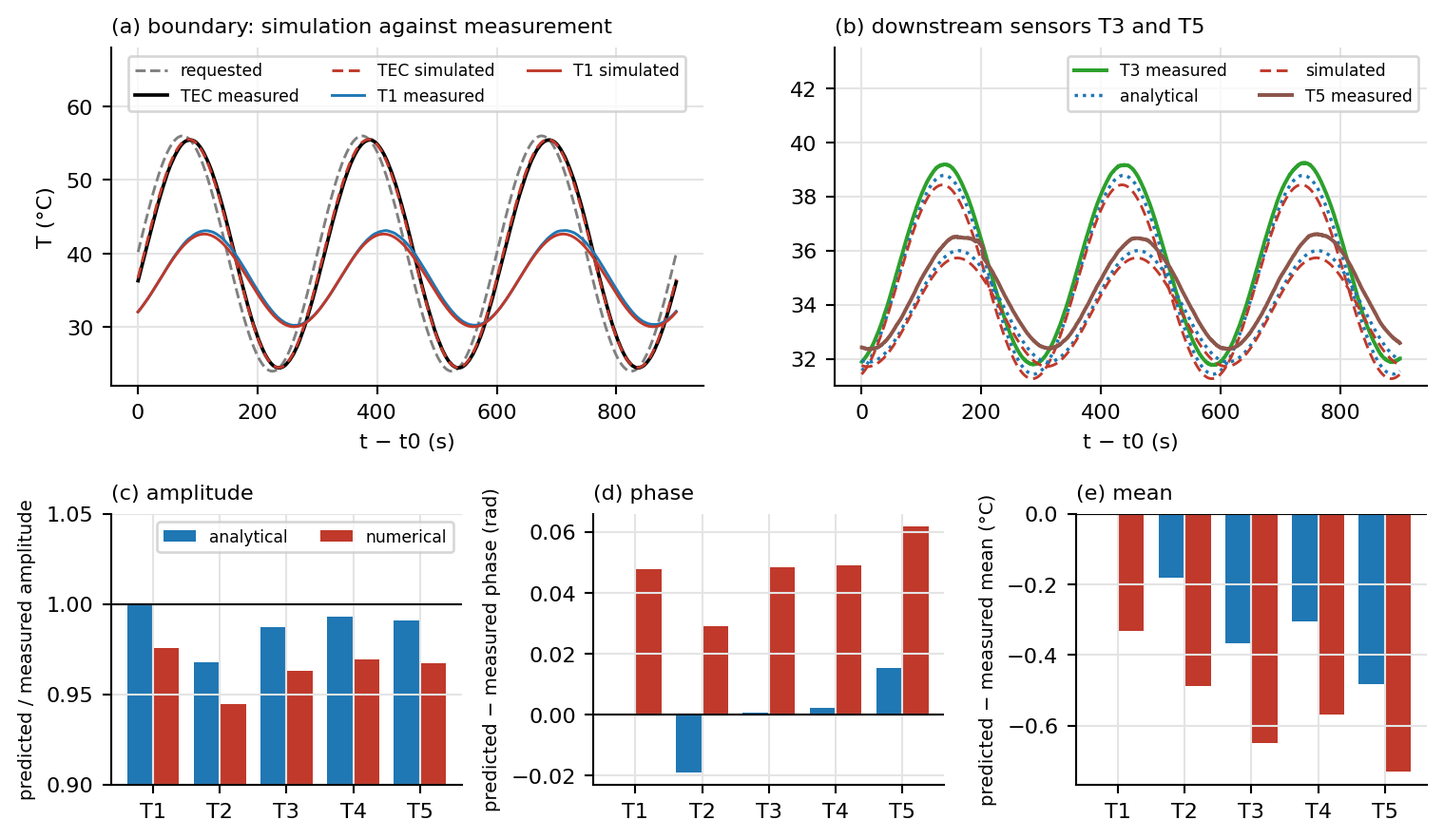
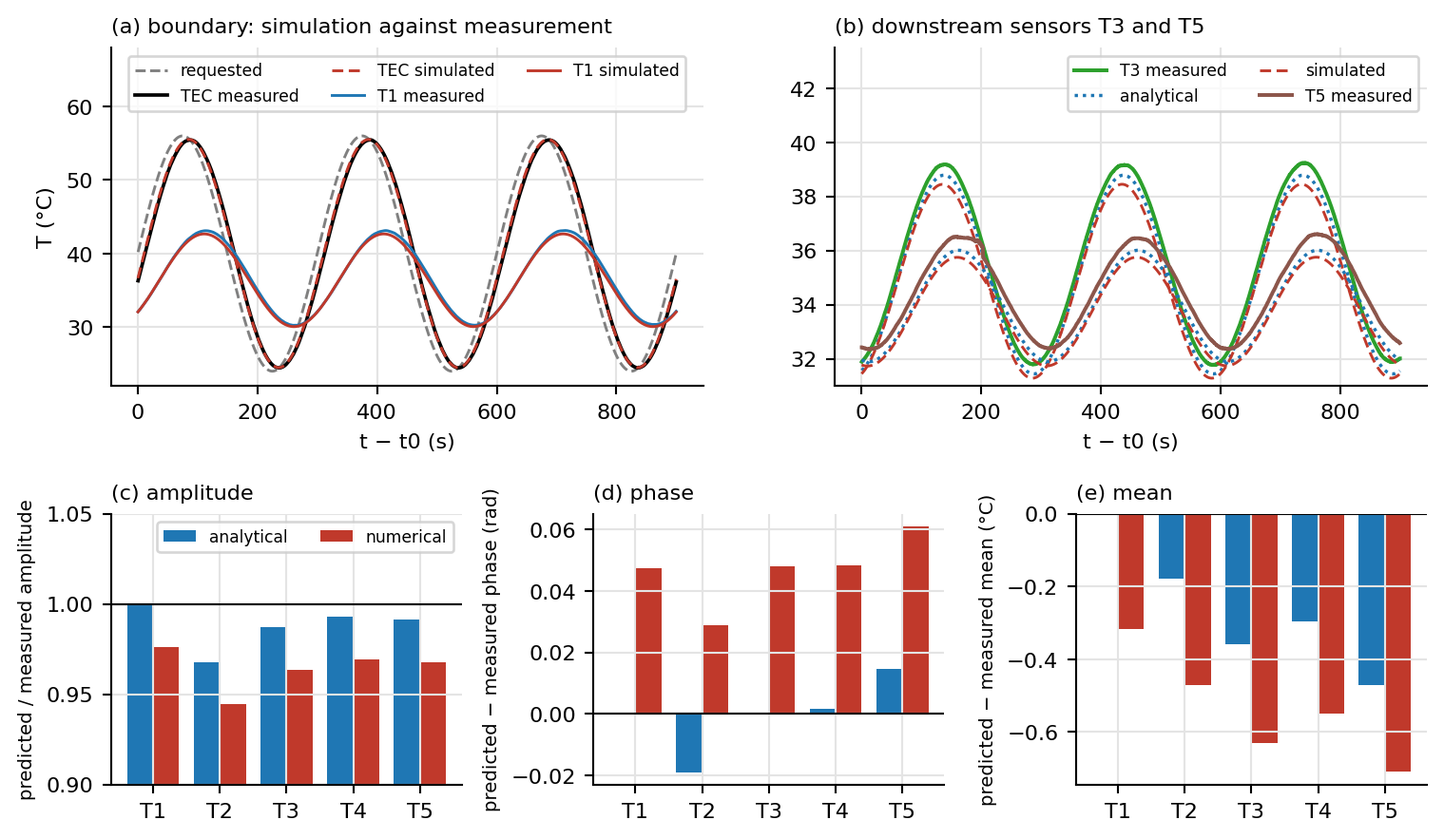
A5 (Cohen): 400 s window of the 18 Nov run is the last five cycles, unmasked
Window = cycles 4 to 8 by the five-cycle rule; four are strictly settled, so the run is left out of the shared kappa (10 windows: kappa 9.26 +- 0.06, nu 1.74 +- 0.14). The T3 burst is reported, not masked; masking it (7 settled cycles, kappa 9.34 +- 0.23) is kept as a sensitivity check. Evidence table updated.

diff --git a/python/sammy_module8_a5_write.py b/python/sammy_module8_a5_write.py
@@ -78,11 +78,11 @@ def main():
     r18 = (chk18[0][1], chk18[2][1])
     bc = M.burst_check(M.RUN18, 400)
     bs = M.burst_stats(M.RUN18, "T3_C", 2445, 2467)
-    wd_nm = M.sammy_window(M.RUN18, 400, "strict", use_mask=False)
-    assert wb[400]["wd"]["ncyc"] == 7 and len(bc["block"]) == 4 and bc["sensor"] == "T3_C", "typed counts in Part 1 are stale"
+    wd_m = M.sammy_window(M.RUN18, 400, "strict", mask=M.T3_BURST)
+    assert wb[400]["wd"]["ncyc"] == 5 and len(bc["block"]) == 4 and wd_m["ncyc"] == 7 and bc["sensor"] == "T3_C", "typed counts in the text are stale"
     xs, dxs = A.load_positions(A.SENSOR_MAP)
-    phi_nm = wd_nm["phi"][0] + M.np.unwrap(wd_nm["phi"] - wd_nm["phi"][0])
-    fin_nm = FR.joint_fit(xs, dxs, wd_nm["B"], wd_nm["sB"], phi_nm, wd_nm["sphi"], 2 * math.pi / 400, A.load_geometry(A.GEOMETRY)["L"], True)
+    phi_m = wd_m["phi"][0] + M.np.unwrap(wd_m["phi"] - wd_m["phi"][0])
+    fin_m = FR.joint_fit(xs, dxs, wd_m["B"], wd_m["sB"], phi_m, wd_m["sphi"], 2 * math.pi / 400, A.load_geometry(A.GEOMETRY)["L"], True)
     cp = M.comparison(g_c, tau_s, kap, nu, wb[300])
     s183 = read_csv(os.path.join(A.DATA_DIR, "s183_analysis_20261111_122227", "s183_by_period.csv"))[0]
     fitrow = next(r for r in read_csv(os.path.join(A.DATA_DIR, "s183_analysis_20261111_122227", "s183_model_fit.csv")) if r["model"].startswith("fitted"))
@@ -214,11 +214,11 @@ Repository: https://github.com/kapilnaidu1/phys39-naidu-cohen, branch main
 - **S18 record.** The team's S18 evidence table (one row per step S18.1 to S18.10: result, evidence, departures) is `docs/module_notes/module_08_s18_evidence_table.md`.
   Departures that matter here: the 2 Nov feedforward inverted the measured steady-state curve instead of using the S18.5 straight line, which gives nearly the same command (3 to 67 counts against {ff_lo:.1f} to {ff_hi:.1f});
   the PI pair (Kp 12, Ki 0.2) came from the Module 6 plate model and ran at every period, and the S18.7 tuning log is the two single-gain trials of 18 Nov (Kp 20, then Ki 0.5, at 100 s; Table 1),
-  neither of which met all four criteria, so I did not retune further; the 400 s window has seven settled cycles by the strict test (3 % in amplitude, 0.05 rad) only after masking one burst on T3 in cycle 4
-  (four without the mask; Question 3); 480 s stands in for 500 s.
+  neither of which met all four criteria, so I did not retune further; the 400 s window (18 Nov) has five cycles by the five-cycle rule but four by the strict settling test (3 % in amplitude, 0.05 rad)
+  because a burst on T3 spoils cycle 4; I did not mask it (Question 3); 480 s stands in for 500 s.
 - **Data and code.** Raw runs, each with `_events.txt`, `_notes.csv` and `_meta.json`: Kapil's `angstrom_live_20261102_094506` (feedforward, P, PI 100 s) and `angstrom_live_20261104_110306` (PI 300 s, the matched run) in `data/module_08/`;
   mine in `data/module_08_sammy/`, all `sammy_angstrom_live_` + `20261111_122227` (raw zero-centered), `20261116_090538` (PI 100 and 480 s), `20261116_111935` (phases: PI 200 s, raw positive-only), `20261117_162612` and `20261118_104629`
-  (PI 400 s; the latter with its `_mask.csv`) and `20261118_122006` (the two gain trials, as phase slices). Each figure caption names its run and interval (also in `a5_control_table.csv` and `a5_windows.csv`). Code (in `python/`):
+  (PI 400 s) and `20261118_122006` (the two gain trials, as phase slices). Each figure caption names its run and interval (also in `a5_control_table.csv` and `a5_windows.csv`). Code (in `python/`):
   `sammy_module8_a5_write.py` regenerates every number, table and figure below with `sammy_module8_a5.py`, `sammy_module8_a5_figs.py`, `sammy_module8_angstrom_analysis.py`, `sammy_module8_finite_rod.py`,
   `sammy_module8_runs_summary.py` and the model `sammy_module8_tec_rod_sim.py`; `build_a5_cohen_pdf.py` makes this PDF. The commit named on this page contains all of them.
 
@@ -289,7 +289,7 @@ insulated tip matters for it, whereas the oscillation is confined to the first o
 ![Characteristic lengths](../figures/module_08_sammy/a5_fig2_lengths.png)
 
 **Figure 2.** Characteristic lengths against period. Curves: 1/q, 1/q\u2032 and 1/m for the shared \u03ba = {pm(kap, kw[1], 1e5)} \u00d7 10\u207b\u2075 m\u00b2/s and \u03bd = {pm(nu, nuw[1], 1e3)} \u00d7 10\u207b\u00b3 s\u207b\u00b9 (bands: \u00b11 standard error). Points: finite-rod fits of the
-five production windows of Table 2 (circles 1/q, squares 1/q\u2032, with errors) and 1/m from the finite mean-profile fit of each window (triangles; the 200 s window had no pre-hold, so its mean was still rising).
+five production windows of Table 2 (circles 1/q, squares 1/q\u2032, with errors) and 1/m from the finite mean-profile fit of each window (triangles; the 200 s window had no pre-hold, so its mean was still rising). Open markers: the 400 s window uses the last five cycles, only {len(bc['block'])} of them strictly settled.
 
 ### Question 3: how do the measurements determine diffusivity and heat loss?
 
@@ -307,9 +307,9 @@ and raises \u03c7\u00b2/dof to {min(chi_dof):.1f} to {max(chi_dof):.1f} (the err
 a semi-infinite fit would give \u03ba {semi_low[400]:.1f} % (400 s) and {semi_low[480]:.1f} % (480 s) too low. (iii) Mean profile: the finite cosh fit to the mean temperatures agrees with \u221a(q\u00b2 \u2212 q\u2032\u00b2) within errors at 100, 300, 400 and 480 s ({mcmp} 1/m), as does Module 7's full-length steady-state fit of the same rod,
 m = 4.12 \u00b1 0.07 1/m (`docs/module_notes/module_08_stationary_fin.md`); at 200 s the run started from room temperature without a hold, the mean was still rising and m is too large.
 (iv) The transverse Biot number Bi = (D/4)\u00b2(q\u00b2 \u2212 q\u2032\u00b2) = {sci(min(w['bi'] for w in wins))} to {sci(max(w['bi'] for w in wins))} \u226a 0.1: one temperature per cross-section.
-(v) The 400 s window (18 Nov): without a mask the strict test rejects cycle {bc['cycle']} on {bc['sensor'][:2]} alone (amplitude {n(bc['dB'][2], 1, True)} %, phase {n(bc['dphi'][2], 2, True)} rad; the other sensors are within {max(abs(v) for i, v in enumerate(bc['dB']) if i != 2):.1f} %),
-because of a burst on T3 ({bs['n']} points more than 0.25 \u00b0C from their running median, jumps up to {bs['jump']:.1f} \u00b0C between 0.5 s samples; 11:27:15 to 11:27:37, no note, cause unknown). I masked those 22 s of T3 (`sammy_angstrom_live_20261118_104629_mask.csv`; the raw file is unchanged),
-which leaves cycles {wb[400]['wd']['cycles']} settled; without the mask only cycles {bc['block'][0] + 1} to {bc['block'][-1] + 1} qualify ({len(bc['block'])}, below the five required) and \u03ba = {pm(fin_nm['kappa'], fin_nm['skappa'], 1e5)} \u00d7 10\u207b\u2075 m\u00b2/s against {pm(wb[400]['fin']['kappa'], wb[400]['fin']['skappa'], 1e5)} with it, so the mask does not decide the result.
+(v) The 400 s window (18 Nov) is the last five cycles of its step (cycles {wb[400]['wd']['cycles']}, no mask). The strict test counts {len(bc['block'])} of them ({bc['block'][0] + 1} to {bc['block'][-1] + 1}) because it rejects cycle {bc['cycle']} on {bc['sensor'][:2]} alone (amplitude {n(bc['dB'][2], 1, True)} %, phase {n(bc['dphi'][2], 2, True)} rad; the other sensors are within {max(abs(v) for i, v in enumerate(bc['dB']) if i != 2):.1f} %),
+the effect of a burst on T3 ({bs['n']} points more than 0.25 \u00b0C from their running median, jumps up to {bs['jump']:.1f} \u00b0C between 0.5 s samples; 11:27:15 to 11:27:37, no note, cause unknown). I kept the burst in the fit (\u03ba = {pm(wb[400]['fin']['kappa'], wb[400]['fin']['skappa'], 1e5)} \u00d7 10\u207b\u2075 m\u00b2/s) and left the window out of the shared mean,
+since only {len(bc['block'])} of its cycles are strictly settled. Masking T3 for those 22 s instead would give {wd_m['ncyc']} settled cycles ({wd_m['cycles']}) and \u03ba = {pm(fin_m['kappa'], fin_m['skappa'], 1e5)}, so the burst does not decide the result.
 
 **The most important limitation.** The five periods agree with each other, so the frequency-consistency test passes, but \u03ba is {100 * (kap / kh - 1):.0f} % above the handbook {kh * 1e5:.1f} \u00d7 10\u207b\u2075 m\u00b2/s of 6061-T6 at every period (k = {k_cond:.0f} against 167 W/(m K)),
 and a frequency-independent systematic cannot show up in a test across frequency. It is not the sensor spacing (the calipers read 25.4 mm; {25.4 * math.sqrt(kh / kap):.0f} mm would be needed), and not T2 (dropping it changes \u03ba by {n(max(t2_dk.values()), 1, True)} to {n(min(t2_dk.values()), 1, True)} %). The alloy,
@@ -320,7 +320,7 @@ the assumed \u03c1 and c, and the effective bead positions are untested.
 **Figure 3.** (a) ln of the amplitude ratio, (b) unwrapped phase and (c) mean excess temperature against distance from the T1 hole for the five windows (SAMMY 16 Nov 100 s and 480 s, SAMMY 16 Nov 200 s, Kapil 4 Nov 300 s, SAMMY 18 Nov 400 s; cycles in Table 2),
 with the finite-rod curves of the fitted q and q\u2032 and the cosh fit of the mean.
 
-**Table 2.** Spatial fits of the five production windows (finite insulated tip; settled cycles are numbered from the start of the step; \u03ba<sub>sh</sub> is the shared value above; the 400 s window masks a T3 burst, Checks (v)). Intervals, residuals, finite-length differences, mean-profile slopes and Biot numbers are in `a5_windows.csv`.
+**Table 2.** Spatial fits of the five production windows (finite insulated tip; settled cycles are numbered from the start of the step; \u03ba<sub>sh</sub> is the shared value above; the 400 s window is the last five cycles of its step, Checks (v)). Intervals, residuals, finite-length differences, mean-profile slopes and Biot numbers are in `a5_windows.csv`.
 
 {t2}
 
@@ -359,7 +359,7 @@ The \u03bd spread between windows (Table 2) is as large as this effect, so I can
 
 The aluminium rod behaves as a one-dimensional rod that diffuses and loses heat to the air: the amplitude and phase lengths grow as \u221a\u03c4, one pair of parameters describes all periods (\u03ba = {pm(kap, kw[1], 1e5)} \u00d7 10\u207b\u2075 m\u00b2/s, \u03bd = {pm(nu, nuw[1], 1e3)} \u00d7 10\u207b\u00b3 s\u207b\u00b9,
 h \u2248 {h_conv:.0f} W/(m\u00b2 K)), and a finite-rod calculation and a coupled TEC and rod simulation both reproduce the 300 s run to a few percent in amplitude and a few hundredths of a radian in phase. The TEC follows the requested sinusoid only at the longer periods (at Kp 12 a delay of 10 to 13 s
-limits the phase; a higher Kp shortens it to {bm('kp20', 'lag_s'):.0f} s but then clips the PWM at 100 s), so the rod is analysed from T1, not from the setpoint. The conclusion is limited by a {100 * (kap / kh - 1):.0f} % excess of \u03ba over the handbook value that a test across frequencies cannot reveal, and a \u03bd good to only {min(nu_err):.0f} to {max(nu_err):.0f} % per window. The one measurement that would best resolve the first is an independent determination of the rod's conductivity or alloy (its density from mass and volume, or a steady-state conduction measurement with a known heater power), which would show whether the excess is in k or in the effective sensor spacing.
+limits the phase; a higher Kp shortens it to {bm('kp20', 'lag_s'):.0f} s but then clips the PWM at 100 s), so the rod is analysed from T1, not from the setpoint. The conclusion is limited by a {100 * (kap / kh - 1):.0f} % excess of \u03ba over the handbook value that a test across frequencies cannot reveal, a \u03bd good to only {min(nu_err):.0f} to {max(nu_err):.0f} % per window and a 400 s window with {len(bc['block'])} strictly settled cycles out of its five. The one measurement that would best resolve the first is an independent determination of the rod's conductivity or alloy (its density from mass and volume, or a steady-state conduction measurement with a known heater power), which would show whether the excess is in k or in the effective sensor spacing.
 
 **AI assistance.** The analysis code, the numerical TEC and rod model and the first draft of this account were written with an AI assistant (GitHub Copilot). Every number and figure is regenerated from the raw files by the scripts named in Part 1, and I am responsible for the content.
 """

diff --git a/python/sammy_module8_a5.py b/python/sammy_module8_a5.py
@@ -42,13 +42,14 @@ RUN18 = "20261118_104629"                                          # 18 Nov: PI 
 TR1 = "20261118_122006_phase1_pi_kp_20_ki_0_2_100s"                # 18 Nov gain trials at 100 s (slices of one plan run)
 TR2 = "20261118_122006_phase2_pi_kp_12_ki_0_5_100s"
 T_ROOM18 = 24.91                                                   # calibrated T1 to T5 mean of the idle lead-in, 18 Nov
+T3_BURST = {"T3_C": [(2445.0, 2467.0, "burst on T3, cycle 4 of the 400 s step")]}   # sensitivity check only: no window is masked
 T_AMB_2NOV, T_AMB_4NOV = 22.53, 27.10
 TA, TB = 40.0, 16.0
 # acceptance criteria for "approached 40 + 16 sin(2 pi t / tau)" (mean error, amplitude ratio, phase lag, rms error)
 CRIT = dict(mean=1.0, ratio_lo=0.90, ratio_hi=1.10, lag=0.30, rms=0.20 * TB)
 # (period, label, source stamp or None for Kapil's 300 s, block, room T for the mean profile)
 WINDOWS = [(100, "SAMMY 16 Nov", RUN16, "strict", 22.2), (200, "SAMMY 16 Nov", PH1, "strict", 22.7),
-           (300, "Kapil 4 Nov", None, "his", T_AMB_4NOV), (400, "SAMMY 18 Nov", RUN18, "strict", T_ROOM18),
+           (300, "Kapil 4 Nov", None, "his", T_AMB_4NOV), (400, "SAMMY 18 Nov", RUN18, "last5", T_ROOM18),
            (480, "SAMMY 16 Nov", RUN16, "strict", 22.2)]
 RUNS_EXTRA = [("SAMMY 18 Nov, PI 400 s", RUN18, "P", "#c0392b")]       # added to the compiled rows of sammy_module8_runs_summary
 COLORS = {100: "#1F4E79", 200: "#2a9d8f", 300: "#888888", 400: "#8e44ad", 480: "#e07b00"}
@@ -56,11 +57,11 @@ wrap = A.wrap
 
 
 def load_run(path, mask=None, use_mask=True):
-    """Run file with the offsets; the mask is <run>_mask.csv when that file exists (use_mask=False: none, for the sensitivity check)."""
+    """Run file with the offsets; mask: a file or a {column: [(t0, t1, reason)]} dict, default <run>_mask.csv when that file exists (none exists for the 18 Nov run)."""
     cols = A.load(path)
     if mask is None and use_mask and os.path.exists(path.replace(".csv", "_mask.csv")):
         mask = path.replace(".csv", "_mask.csv")
-    _, data, _ = A.prepare(cols, A.load_offsets(A.OFFSETS), A.load_mask(mask) if mask else {})
+    _, data, _ = A.prepare(cols, A.load_offsets(A.OFFSETS), (A.load_mask(mask) if isinstance(mask, str) else mask) if mask else {})
     return cols, data
 
 
@@ -154,7 +155,7 @@ def control_rows():
 # ---------------------------------------------------------------------------
 
 CONTACT_1617 = ((RUN16, 100, "strict"), (PH1, 200, "strict"), (RUN17, 400, "last5"))
-CONTACT_18 = ((TR1, 100, "strict"), (TR2, 100, "strict"), (RUN18, 400, "strict"))
+CONTACT_18 = ((TR1, 100, "strict"), (TR2, 100, "strict"), (RUN18, 400, "last5"))
 
 
 def fit_contact(kappa, nu, windows=CONTACT_1617):
@@ -212,8 +213,8 @@ def variant(kp, ki, mode, g_c, tau_s, period=100.0):
 # windows, spatial fits, mean profile (Q2, Q3)
 # ---------------------------------------------------------------------------
 
-def sammy_window(stamp, period, which, use_mask=True):
-    cols, data = load_run(f"{DATA}/module_08_sammy/sammy_angstrom_live_{stamp}.csv", use_mask=use_mask)
+def sammy_window(stamp, period, which, use_mask=True, mask=None):
+    cols, data = load_run(f"{DATA}/module_08_sammy/sammy_angstrom_live_{stamp}.csv", mask=mask, use_mask=use_mask)
     t = cols["t"]
     info = next(s for s in A.find_steps(cols) if abs(s["period"] - period) < 1 and s["tb"] > 0)
     cyc = A.cycle_fits(t, data, info)

diff --git a/docs/assessments/a5_angstrom_cohen.md b/docs/assessments/a5_angstrom_cohen.md
@@ -10,11 +10,11 @@ Repository: https://github.com/kapilnaidu1/phys39-naidu-cohen, branch main
 - **S18 record.** The team's S18 evidence table (one row per step S18.1 to S18.10: result, evidence, departures) is `docs/module_notes/module_08_s18_evidence_table.md`.
   Departures that matter here: the 2 Nov feedforward inverted the measured steady-state curve instead of using the S18.5 straight line, which gives nearly the same command (3 to 67 counts against 2.9 to 66.8);
   the PI pair (Kp 12, Ki 0.2) came from the Module 6 plate model and ran at every period, and the S18.7 tuning log is the two single-gain trials of 18 Nov (Kp 20, then Ki 0.5, at 100 s; Table 1),
-  neither of which met all four criteria, so I did not retune further; the 400 s window has seven settled cycles by the strict test (3 % in amplitude, 0.05 rad) only after masking one burst on T3 in cycle 4
-  (four without the mask; Question 3); 480 s stands in for 500 s.
+  neither of which met all four criteria, so I did not retune further; the 400 s window (18 Nov) has five cycles by the five-cycle rule but four by the strict settling test (3 % in amplitude, 0.05 rad)
+  because a burst on T3 spoils cycle 4; I did not mask it (Question 3); 480 s stands in for 500 s.
 - **Data and code.** Raw runs, each with `_events.txt`, `_notes.csv` and `_meta.json`: Kapil's `angstrom_live_20261102_094506` (feedforward, P, PI 100 s) and `angstrom_live_20261104_110306` (PI 300 s, the matched run) in `data/module_08/`;
   mine in `data/module_08_sammy/`, all `sammy_angstrom_live_` + `20261111_122227` (raw zero-centered), `20261116_090538` (PI 100 and 480 s), `20261116_111935` (phases: PI 200 s, raw positive-only), `20261117_162612` and `20261118_104629`
-  (PI 400 s; the latter with its `_mask.csv`) and `20261118_122006` (the two gain trials, as phase slices). Each figure caption names its run and interval (also in `a5_control_table.csv` and `a5_windows.csv`). Code (in `python/`):
+  (PI 400 s) and `20261118_122006` (the two gain trials, as phase slices). Each figure caption names its run and interval (also in `a5_control_table.csv` and `a5_windows.csv`). Code (in `python/`):
   `sammy_module8_a5_write.py` regenerates every number, table and figure below with `sammy_module8_a5.py`, `sammy_module8_a5_figs.py`, `sammy_module8_angstrom_analysis.py`, `sammy_module8_finite_rod.py`,
   `sammy_module8_runs_summary.py` and the model `sammy_module8_tec_rod_sim.py`; `build_a5_cohen_pdf.py` makes this PDF. The commit named on this page contains all of them.
 
@@ -49,7 +49,7 @@ The simulation of Question 4, not adjusted to the trials, gives ratio and lag 0.
 the right direction and size, the lag 15 % (Kp 20) and 15 % (Ki 0.5) low, and the clipping at Kp 20 missed.
 
 **The rod boundary is T1.** The TEC thermistor reads the plate; the rod base sees the plate through a contact conductance. T1 has only 0.27, 0.35 and 0.44 of the TEC amplitude at 100, 200 and 400 s (16 and 17 Nov) and lags it by
-0.78, 0.64 and 0.51 rad, which a contact conductance of 0.265 W/K in series with the rod reproduces to 0.4 % and 0.03 rad (Question 4); on 18 Nov T1 had 0.22 and 0.40 of the TEC amplitude at 100 and 400 s
+0.78, 0.64 and 0.51 rad, which a contact conductance of 0.265 W/K in series with the rod reproduces to 0.4 % and 0.03 rad (Question 4); on 18 Nov T1 had 0.22 and 0.39 of the TEC amplitude at 100 and 400 s
 and the same model needs 0.210 W/K (cause unknown; the leads and sensors were handled before that run). The solution of Question 2 needs only the temperature at x = 0, and T1 is the sensor nearest to it; referring the rod to the TEC or the setpoint
 would put the contact path, which is not a property of the rod, into q and q′.
 
@@ -75,8 +75,8 @@ amplitude ratio: B<sub>TEC</sub>/16 °C; lag: behind the requested setpoint (beh
 | PI, 18 Nov | Kp 12, Ki 0.5 | 100 | +0.95 | 1.03 | 0.68 (10.9) | 7.8 | −255 to 200 | 1.6 | mean, ratio |
 | P only, simulated | Kp 12, Ki 0 | 100 | −2.63 | 0.74 | 0.51 (8.2) | 6.3 | −183 to 129 | 0.0 | none |
 | PI, simulated | Kp 12, Ki 0.2 | 100 | 0.00 | 0.83 | 0.58 (9.3) | 6.2 | −202 to 147 | 0.0 | mean |
-| PI, simulated | Kp 12, Ki 0.5 | 100 | +0.18 | 1.00 | 0.58 (9.2) | 6.5 | −255 to 171 | 0.7 | mean, ratio |
-| PI, simulated | Kp 20, Ki 0.2 | 100 | 0.00 | 0.89 | 0.37 (5.9) | 4.1 | −225 to 156 | 0.0 | mean |
+| PI, simulated | Kp 12, Ki 0.5 | 100 | +0.18 | 1.00 | 0.58 (9.3) | 6.5 | −255 to 171 | 1.1 | mean, ratio |
+| PI, simulated | Kp 20, Ki 0.2 | 100 | 0.00 | 0.89 | 0.37 (5.9) | 4.1 | −225 to 155 | 0.0 | mean |
 
 ## 3. Experiment, simulation and theory
 
@@ -89,18 +89,18 @@ T<sub>b</sub> e<sup>−qx</sup> cos(ωt − q′x) is its limit when q(L − x) 
 
 **The lengths.** ℓ<sub>mean</sub> = 1/m is the distance over which the mean excess temperature falls by e; ℓ<sub>amp</sub> = 1/q is the e-folding length of the oscillation amplitude; ℓ<sub>phase</sub> = 1/q′ is the distance that adds one radian of lag. They are tied by
 m² = ν/κ = q² − q′² and 2qq′ = ω/κ, so q/m = √((1 + √(1 + Ω²))/2) and q′/m = √((√(1 + Ω²) − 1)/2) with Ω = ω/ν. ℓ<sub>mean</sub> does not depend on the period:
-√(κ/ν) = 230 mm for the κ and ν of Question 3. For ω ≫ ν both q and q′ tend to √(ω/2κ), so ℓ<sub>amp</sub> ≈ ℓ<sub>phase</sub> ≈ √(κτ/π) grow as √τ: 53 mm at 100 s and 111 mm at 480 s
+√(κ/ν) = 231 mm for the κ and ν of Question 3. For ω ≫ ν both q and q′ tend to √(ω/2κ), so ℓ<sub>amp</sub> ≈ ℓ<sub>phase</sub> ≈ √(κτ/π) grow as √τ: 53 mm at 100 s and 111 mm at 480 s
 (Figure 2). The fitted points follow the curves although each period was fitted on its own, apart from the mean-profile points at 200 s (Question 3) and 300 s (Question 4).
 
 **What this means for the experiment.** The 101.6 mm T1 to T5 array spans 1.9 ℓ<sub>amp</sub> at 100 s and 0.9 at 480 s: the T5 amplitude is 0.15 of T1's at 100 s (0.54 ± 0.003 °C)
 and 0.38 at 480 s, with a lag across the array of 1.86 and 0.82 rad. Every sensor keeps a measurable amplitude and phase at every period, and the course targets (B<sub>far</sub> ≈ B<sub>1</sub>/e, a lag of 0.5 to 2 rad) are met at 480 s;
-at 100 s the lag is in range but the amplitude is a factor 2.5 below B<sub>1</sub>/e. Since ℓ<sub>mean</sub> = 230 mm is comparable to L = 282 mm (mL = 1.2), the mean excess temperature stays measurable along the whole rod and the
+at 100 s the lag is in range but the amplitude is a factor 2.5 below B<sub>1</sub>/e. Since ℓ<sub>mean</sub> = 231 mm is comparable to L = 282 mm (mL = 1.2), the mean excess temperature stays measurable along the whole rod and the
 insulated tip matters for it, whereas the oscillation is confined to the first one or two ℓ<sub>amp</sub> (Figure 4, 300 s: T5 has 0.32 of the T1 amplitude and lags T1 by 1.04 rad (50 s), while the mean falls from 36.7 to 34.4 °C).
 
 ![Characteristic lengths](../figures/module_08_sammy/a5_fig2_lengths.png)
 
-**Figure 2.** Characteristic lengths against period. Curves: 1/q, 1/q′ and 1/m for the shared κ = 9.26 ± 0.06 × 10⁻⁵ m²/s and ν = 1.75 ± 0.13 × 10⁻³ s⁻¹ (bands: ±1 standard error). Points: finite-rod fits of the
-five production windows of Table 2 (circles 1/q, squares 1/q′, with errors) and 1/m from the finite mean-profile fit of each window (triangles; the 200 s window had no pre-hold, so its mean was still rising).
+**Figure 2.** Characteristic lengths against period. Curves: 1/q, 1/q′ and 1/m for the shared κ = 9.26 ± 0.06 × 10⁻⁵ m²/s and ν = 1.74 ± 0.14 × 10⁻³ s⁻¹ (bands: ±1 standard error). Points: finite-rod fits of the
+five production windows of Table 2 (circles 1/q, squares 1/q′, with errors) and 1/m from the finite mean-profile fit of each window (triangles; the 200 s window had no pre-hold, so its mean was still rising). Open markers: the 400 s window uses the last five cycles, only 4 of them strictly settled.
 
 ### Question 3: how do the measurements determine diffusivity and heat loss?
 
@@ -108,19 +108,19 @@ five production windows of Table 2 (circles 1/q, squares 1/q′, with errors) an
 against x with one complex s (finite insulated-tip form, 1 mm position errors on T2 to T5, errors scaled by √(χ²/dof) when that exceeds 1). Then κ = ω/(2qq′) and ν = κ(q² − q′²): the product of the two decay rates carries the diffusion, the
 difference of their squares the side loss (Table 2, Figure 3).
 
-**Result.** The five periods give κ = 9.16 to 9.34 × 10⁻⁵ m²/s with errors of 1.6 to 2.5 %, and ν = 1.1 to 1.9 × 10⁻³ s⁻¹ with errors
-of 15 to 60 %, because q² − q′² is a small difference of large numbers. The windows with five settled cycles (11 windows: 5 of mine and 6 of Kapil's) give the weighted mean κ = 9.26 ± 0.06 × 10⁻⁵ m²/s
-(χ² 7.5 for 10 degrees of freedom) and ν = 1.75 ± 0.13 × 10⁻³ s⁻¹; with the handbook ρ and c, k = ρcκ = 224 W/(m K) and h = ρc(D/4)ν = 14 W/(m² K). The period that departs most from this pair is 200 s
+**Result.** The five periods give κ = 9.16 to 9.33 × 10⁻⁵ m²/s with errors of 1.6 to 2.8 %, and ν = 1.1 to 1.9 × 10⁻³ s⁻¹ with errors
+of 15 to 60 %, because q² − q′² is a small difference of large numbers. The windows with five settled cycles (10 windows: 4 of mine and 6 of Kapil's) give the weighted mean κ = 9.26 ± 0.06 × 10⁻⁵ m²/s
+(χ² 7.4 for 9 degrees of freedom) and ν = 1.74 ± 0.14 × 10⁻³ s⁻¹; with the handbook ρ and c, k = ρcκ = 224 W/(m K) and h = ρc(D/4)ν = 13 W/(m² K). The period that departs most from this pair is 200 s
 (κ = 9.16 ± 0.15 × 10⁻⁵ m²/s, −0.7σ): within its uncertainty, so I draw no trend from it.
 
-**Checks.** (i) Residuals: after the fit the amplitudes at T3 to T5 are within 1.9 % and all phases within 0.038 rad; the exception is T2, whose amplitude sits 2.6 to 5.3 % above the fit at every period
+**Checks.** (i) Residuals: after the fit the amplitudes at T3 to T5 are within 1.9 % and all phases within 0.038 rad; the exception is T2, whose amplitude sits 2.5 to 5.3 % above the fit at every period
 and raises χ²/dof to 2.0 to 2.9 (the errors in Table 2 are scaled up accordingly). (ii) Finite length: the finite and semi-infinite amplitudes differ at T5 by 0.1 % (100 s) to 4.1 % (480 s), so I use the finite-rod fit;
-a semi-infinite fit would give κ 2.7 % (400 s) and 4.6 % (480 s) too low. (iii) Mean profile: the finite cosh fit to the mean temperatures agrees with √(q² − q′²) within errors at 100, 300, 400 and 480 s (4.50 against 4.50, 3.80 against 3.76, 4.55 against 4.46, 4.33 against 4.35 1/m), as does Module 7's full-length steady-state fit of the same rod,
+a semi-infinite fit would give κ 2.9 % (400 s) and 4.6 % (480 s) too low. (iii) Mean profile: the finite cosh fit to the mean temperatures agrees with √(q² − q′²) within errors at 100, 300, 400 and 480 s (4.50 against 4.50, 3.80 against 3.76, 4.55 against 4.26, 4.33 against 4.35 1/m), as does Module 7's full-length steady-state fit of the same rod,
 m = 4.12 ± 0.07 1/m (`docs/module_notes/module_08_stationary_fin.md`); at 200 s the run started from room temperature without a hold, the mean was still rising and m is too large.
 (iv) The transverse Biot number Bi = (D/4)²(q² − q′²) = 1.2 × 10⁻⁴ to 2.1 × 10⁻⁴ ≪ 0.1: one temperature per cross-section.
-(v) The 400 s window (18 Nov): without a mask the strict test rejects cycle 4 on T3 alone (amplitude +8.7 %, phase +0.08 rad; the other sensors are within 2.4 %),
-because of a burst on T3 (17 points more than 0.25 °C from their running median, jumps up to 3.3 °C between 0.5 s samples; 11:27:15 to 11:27:37, no note, cause unknown). I masked those 22 s of T3 (`sammy_angstrom_live_20261118_104629_mask.csv`; the raw file is unchanged),
-which leaves cycles 2 to 8 settled; without the mask only cycles 5 to 8 qualify (4, below the five required) and κ = 9.27 ± 0.25 × 10⁻⁵ m²/s against 9.34 ± 0.23 with it, so the mask does not decide the result.
+(v) The 400 s window (18 Nov) is the last five cycles of its step (cycles 4 to 8, no mask). The strict test counts 4 of them (5 to 8) because it rejects cycle 4 on T3 alone (amplitude +8.7 %, phase +0.08 rad; the other sensors are within 2.4 %),
+the effect of a burst on T3 (17 points more than 0.25 °C from their running median, jumps up to 3.3 °C between 0.5 s samples; 11:27:15 to 11:27:37, no note, cause unknown). I kept the burst in the fit (κ = 9.30 ± 0.26 × 10⁻⁵ m²/s) and left the window out of the shared mean,
+since only 4 of its cycles are strictly settled. Masking T3 for those 22 s instead would give 7 settled cycles (2 to 8) and κ = 9.34 ± 0.23, so the burst does not decide the result.
 
 **The most important limitation.** The five periods agree with each other, so the frequency-consistency test passes, but κ is 34 % above the handbook 6.9 × 10⁻⁵ m²/s of 6061-T6 at every period (k = 224 against 167 W/(m K)),
 and a frequency-independent systematic cannot show up in a test across frequency. It is not the sensor spacing (the calipers read 25.4 mm; 22 mm would be needed), and not T2 (dropping it changes κ by −0.4 to −0.7 %). The alloy,
@@ -131,14 +131,14 @@ the assumed ρ and c, and the effective bead positions are untested.
 **Figure 3.** (a) ln of the amplitude ratio, (b) unwrapped phase and (c) mean excess temperature against distance from the T1 hole for the five windows (SAMMY 16 Nov 100 s and 480 s, SAMMY 16 Nov 200 s, Kapil 4 Nov 300 s, SAMMY 18 Nov 400 s; cycles in Table 2),
 with the finite-rod curves of the fitted q and q′ and the cosh fit of the mean.
 
-**Table 2.** Spatial fits of the five production windows (finite insulated tip; settled cycles are numbered from the start of the step; κ<sub>sh</sub> is the shared value above; the 400 s window masks a T3 burst, Checks (v)). Intervals, residuals, finite-length differences, mean-profile slopes and Biot numbers are in `a5_windows.csv`.
+**Table 2.** Spatial fits of the five production windows (finite insulated tip; settled cycles are numbered from the start of the step; κ<sub>sh</sub> is the shared value above; the 400 s window is the last five cycles of its step, Checks (v)). Intervals, residuals, finite-length differences, mean-profile slopes and Biot numbers are in `a5_windows.csv`.
 
 | τ (s) | Run and settled cycles | q (1/m) | q′ (1/m) | κ (10⁻⁵ m²/s) | ν (10⁻³ 1/s) | χ²/dof | (κ − κ<sub>sh</sub>)/σ |
 |---|---|---|---|---|---|---|---|
 | 100 | SAMMY 16 Nov, cycles 7 to 12 | 18.76 ± 0.24 | 18.21 ± 0.23 | 9.20 ± 0.16 | 1.86 ± 1.12 | 17.3/6 | −0.4 |
 | 200 | SAMMY 16 Nov, cycles 2 to 7 | 13.33 ± 0.16 | 12.87 ± 0.15 | 9.16 ± 0.15 | 1.12 ± 0.52 | 12.9/6 | −0.7 |
 | 300 | Kapil 4 Nov, cycles 2 to 7 | 10.94 ± 0.12 | 10.27 ± 0.12 | 9.33 ± 0.15 | 1.32 ± 0.35 | 11.8/6 | +0.4 |
-| 400 | SAMMY 18 Nov, cycles 2 to 8 | 9.73 ± 0.17 | 8.64 ± 0.16 | 9.34 ± 0.23 | 1.86 ± 0.40 | 16.5/6 | +0.3 |
+| 400 | SAMMY 18 Nov, cycles 4 to 8 (last five) | 9.69 ± 0.20 | 8.71 ± 0.17 | 9.30 ± 0.26 | 1.68 ± 0.45 | 16.5/6 | +0.2 |
 | 480 | SAMMY 16 Nov, cycles 2 to 8 | 9.02 ± 0.13 | 7.90 ± 0.11 | 9.19 ± 0.18 | 1.74 ± 0.27 | 14.4/6 | −0.4 |
 
 ### Question 4: how well do theory, experiment and simulation agree?
@@ -150,7 +150,7 @@ The **analytical prediction** is the finite-rod solution of Question 2 driven by
 controller (PI, Kp 12, Ki 0.2, r = 2.771, conditional integration, ±255 counts, 0.54 s step), run on the recorded setpoint from the recorded temperatures at the start of the schedule (`python/sammy_module8_tec_rod_sim.py`; it is not the course web simulator).
 
 **Boundary first.** The simulated TEC has mean 40.00 against 39.94 °C, amplitude 15.51 against 15.52 °C and a phase 0.025 rad ahead; the simulated T1 has
-0.976 of the measured amplitude and a phase 0.048 rad ahead (2.3 s), with the mean 0.33 °C low. The model reproduces the boundary waveform to 2.4 % and 0.05 rad.
+0.976 of the measured amplitude and a phase 0.047 rad ahead (2.3 s), with the mean 0.32 °C low. The model reproduces the boundary waveform to 2.4 % and 0.05 rad.
 
 **One agreement: amplitude and phase along the rod** (Table 3, Figure 4). Driven by the measured T1, the analytical amplitudes are within 1.3 % of the measurements at T3 to T5 and the phases within 0.019 rad.
 The numerical amplitudes are 3 to 6 % low and its phases 0.03 to 0.06 rad ahead, but by almost the same fraction as at T1: the transfer from T1 to T5
@@ -158,8 +158,8 @@ is reproduced to 0.9 % in amplitude and 0.014 rad in phase. The difference there
 3.2 % low, the T2 excess of Question 3. Because κ and ν include this window, the analytical comparison is a consistency check, not an independent test; the numerical TEC and T1 histories are partly independent, since G<sub>c</sub> came from other runs and the plate numbers
 from Modules 4 and 6, but the controller is assumed to be the sketch's.
 
-**One meaningful discrepancy: the mean temperature.** Both models are cooler than the measured mean and the offset grows along the rod: the analytical means are −0.18 to −0.48 °C at T2 to T5, the numerical ones −0.33 to −0.73 °C at T1 to T5.
-The model mean decays with m = 4.35 1/m against 3.80 ± 0.08 1/m fitted to this run's mean profile. The 300 s window's own ν (1.32 ± 0.35 × 10⁻³ s⁻¹, 1.2σ below the shared value) gives
+**One meaningful discrepancy: the mean temperature.** Both models are cooler than the measured mean and the offset grows along the rod: the analytical means are −0.18 to −0.47 °C at T2 to T5, the numerical ones −0.32 to −0.71 °C at T1 to T5.
+The model mean decays with m = 4.33 1/m against 3.80 ± 0.08 1/m fitted to this run's mean profile. The 300 s window's own ν (1.32 ± 0.35 × 10⁻³ s⁻¹, 1.2σ below the shared value) gives
 m = 3.76 1/m and brings the analytical means to within 0.09 °C. The room was 27.1 °C on 4 Nov against about 22 °C in my runs, and a smaller excess temperature means a smaller natural-convection h, which is the direction of the difference.
 The ν spread between windows (Table 2) is as large as this effect, so I cannot tell a real h(ΔT) from statistical scatter.
 
@@ -167,12 +167,12 @@ The ν spread between windows (Table 2) is as large as this effect, so I cannot 
 
 | Sensor | Measured: mean (°C), amplitude (°C), phase (rad) | Analytical: Δmean (°C), amplitude ratio, Δphase (rad) | Numerical: Δmean (°C), amplitude ratio, Δphase (rad) | Analytical rms residual (°C) | Numerical rms residual (°C) |
 |---|---|---|---|---|---|
-| T1 (0.0 mm) | 36.67, 6.458, −2.103 | 0.00, 1.000, 0.000 | −0.33, 0.976, +0.048 | 0.05 | 0.41 |
-| T2 (25.4 mm) | 36.02, 5.035, −2.341 | −0.18, 0.968, −0.019 | −0.49, 0.944, +0.029 | 0.23 | 0.54 |
-| T3 (50.8 mm) | 35.47, 3.720, −2.617 | −0.37, 0.987, +0.001 | −0.65, 0.963, +0.049 | 0.37 | 0.67 |
-| T4 (76.2 mm) | 34.79, 2.775, −2.874 | −0.31, 0.993, +0.002 | −0.57, 0.969, +0.049 | 0.31 | 0.58 |
-| T5 (101.6 mm) | 34.43, 2.076, 3.138 | −0.48, 0.991, +0.015 | −0.73, 0.967, +0.062 | 0.49 | 0.74 |
-| TEC | 39.94, 15.518, −1.549 |  | +0.06, 0.999, +0.025 |  |  |
+| T1 (0.0 mm) | 36.67, 6.458, −2.103 | 0.00, 1.000, 0.000 | −0.32, 0.976, +0.047 | 0.05 | 0.40 |
+| T2 (25.4 mm) | 36.02, 5.035, −2.341 | −0.18, 0.968, −0.019 | −0.47, 0.945, +0.029 | 0.23 | 0.52 |
+| T3 (50.8 mm) | 35.47, 3.720, −2.617 | −0.36, 0.987, +0.001 | −0.63, 0.963, +0.048 | 0.36 | 0.65 |
+| T4 (76.2 mm) | 34.79, 2.775, −2.874 | −0.30, 0.993, +0.002 | −0.55, 0.969, +0.049 | 0.30 | 0.56 |
+| T5 (101.6 mm) | 34.43, 2.076, 3.138 | −0.47, 0.991, +0.015 | −0.71, 0.968, +0.061 | 0.48 | 0.72 |
+| TEC | 39.94, 15.518, −1.549 |  | +0.06, 1.000, +0.025 |  |  |
 
 ![Matched comparison](../figures/module_08_sammy/a5_fig4_comparison.png)
 
@@ -181,8 +181,8 @@ The ν spread between windows (Table 2) is as large as this effect, so I cannot 
 
 ### Conclusion
 
-The aluminium rod behaves as a one-dimensional rod that diffuses and loses heat to the air: the amplitude and phase lengths grow as √τ, one pair of parameters describes all periods (κ = 9.26 ± 0.06 × 10⁻⁵ m²/s, ν = 1.75 ± 0.13 × 10⁻³ s⁻¹,
-h ≈ 14 W/(m² K)), and a finite-rod calculation and a coupled TEC and rod simulation both reproduce the 300 s run to a few percent in amplitude and a few hundredths of a radian in phase. The TEC follows the requested sinusoid only at the longer periods (at Kp 12 a delay of 10 to 13 s
-limits the phase; a higher Kp shortens it to 7 s but then clips the PWM at 100 s), so the rod is analysed from T1, not from the setpoint. The conclusion is limited by a 34 % excess of κ over the handbook value that a test across frequencies cannot reveal, and a ν good to only 15 to 60 % per window. The one measurement that would best resolve the first is an independent determination of the rod's conductivity or alloy (its density from mass and volume, or a steady-state conduction measurement with a known heater power), which would show whether the excess is in k or in the effective sensor spacing.
+The aluminium rod behaves as a one-dimensional rod that diffuses and loses heat to the air: the amplitude and phase lengths grow as √τ, one pair of parameters describes all periods (κ = 9.26 ± 0.06 × 10⁻⁵ m²/s, ν = 1.74 ± 0.14 × 10⁻³ s⁻¹,
+h ≈ 13 W/(m² K)), and a finite-rod calculation and a coupled TEC and rod simulation both reproduce the 300 s run to a few percent in amplitude and a few hundredths of a radian in phase. The TEC follows the requested sinusoid only at the longer periods (at Kp 12 a delay of 10 to 13 s
+limits the phase; a higher Kp shortens it to 7 s but then clips the PWM at 100 s), so the rod is analysed from T1, not from the setpoint. The conclusion is limited by a 34 % excess of κ over the handbook value that a test across frequencies cannot reveal, a ν good to only 15 to 60 % per window and a 400 s window with 4 strictly settled cycles out of its five. The one measurement that would best resolve the first is an independent determination of the rod's conductivity or alloy (its density from mass and volume, or a steady-state conduction measurement with a known heater power), which would show whether the excess is in k or in the effective sensor spacing.
 
 **AI assistance.** The analysis code, the numerical TEC and rod model and the first draft of this account were written with an AI assistant (GitHub Copilot). Every number and figure is regenerated from the raw files by the scripts named in Part 1, and I am responsible for the content.

diff --git a/docs/module_notes/module_08_s18_evidence_table.md b/docs/module_notes/module_08_s18_evidence_table.md
@@ -25,7 +25,7 @@ The code checkpoint of a given account is the commit named on its first page.
 | 100 | [sammy_angstrom_live_20261116_090538.csv](../../data/module_08_sammy/sammy_angstrom_live_20261116_090538.csv) | 7 to 12 | 1192.5 to 1792.5 | strict settling test |
 | 200 | [sammy_angstrom_live_20261116_111935_phase1_pi200s.csv](../../data/module_08_sammy/sammy_angstrom_live_20261116_111935_phase1_pi200s.csv) | 2 to 7 | 442.2 to 1642.2 | strict settling test |
 | 300 | [angstrom_live_20261104_110306.csv](../../data/module_08/angstrom_live_20261104_110306.csv) | 2 to 7 | 887.2 to 2687.2 | Naidu's selection |
-| 400 | [sammy_angstrom_live_20261118_104629.csv](../../data/module_08_sammy/sammy_angstrom_live_20261118_104629.csv) | 2 to 8 | 1526.2 to 4326.2 | strict settling test with a T3 burst in cycle 4 masked ([mask](../../data/module_08_sammy/sammy_angstrom_live_20261118_104629_mask.csv)); without the mask only cycles 5 to 8 qualify. The 17 Nov run ([sammy_angstrom_live_20261117_162612.csv](../../data/module_08_sammy/sammy_angstrom_live_20261117_162612.csv), cycles 3 to 7 = last five, only 6 and 7 strict) gives κ = 9.05 ± 0.17 (finite-rod, last five cycles) and is kept as a cross-check |
+| 400 | [sammy_angstrom_live_20261118_104629.csv](../../data/module_08_sammy/sammy_angstrom_live_20261118_104629.csv) | 4 to 8 | 2326.2 to 4326.2 | last five cycles (five-cycle rule); the strict test counts cycles 5 to 8 because cycle 4 fails on a burst on T3 (not masked); κ = 9.30 ± 0.26 (finite-rod), left out of the shared mean. The 17 Nov run ([sammy_angstrom_live_20261117_162612.csv](../../data/module_08_sammy/sammy_angstrom_live_20261117_162612.csv), cycles 3 to 7 = last five, only 6 and 7 strict) gives κ = 9.05 ± 0.17 and is kept as a cross-check |
 | 480 (for 500) | [sammy_angstrom_live_20261116_090538.csv](../../data/module_08_sammy/sammy_angstrom_live_20261116_090538.csv) | 2 to 8 | 2272.8 to 5632.8 | the page changed to 500 s after our 480 s runs |
 
 Fits of every window: [a5_windows.csv](../../data/module_08_sammy/a5_windows.csv), [compiled_periods.csv](../../data/module_08_sammy/compiled_periods.csv), [finite_rod_fits.csv](../../data/module_08_sammy/finite_rod_fits.csv).
@@ -34,7 +34,7 @@ Fits of every window: [a5_windows.csv](../../data/module_08_sammy/a5_windows.csv
 
 - S18.7: two single-gain trials were run on 18 Nov (Kp 20, Ki 0.5) with no retuning after them; P only was not repeated (Naidu's 2 Nov run).
 - S18.3, S18.4 and the focused S19 simulation: the course's six-sensor simulator tables were not filled; our own Python models were used instead.
-- 400 s: seven settled cycles by the strict test only with a documented mask of a T3 burst in cycle 4 (four without it); the cause of the burst is unknown, no note was typed.
+- 400 s: five cycles by the five-cycle rule (cycles 4 to 8), four by the strict settling test: cycle 4 fails on one burst on T3 (cause unknown, no note typed); no mask was applied.
 - The contact between the TEC plate and the rod changed between sessions: T1/TEC amplitude 0.44 (17 Nov) and 0.40 (18 Nov) at 400 s, 0.27 (16 Nov) and 0.22 (18 Nov) at 100 s, G<sub>c</sub> 0.265 and 0.21 W/K; the cause is unknown.
 - No caliper reading was recorded on 18 Nov.
 
